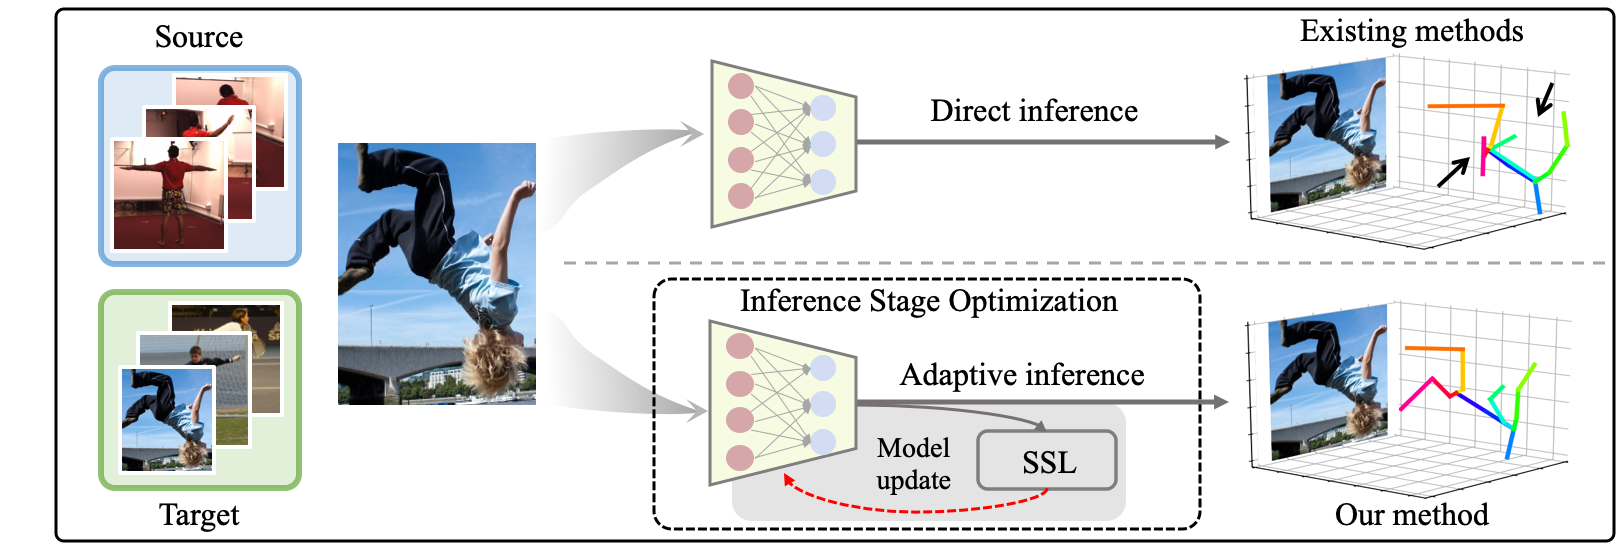
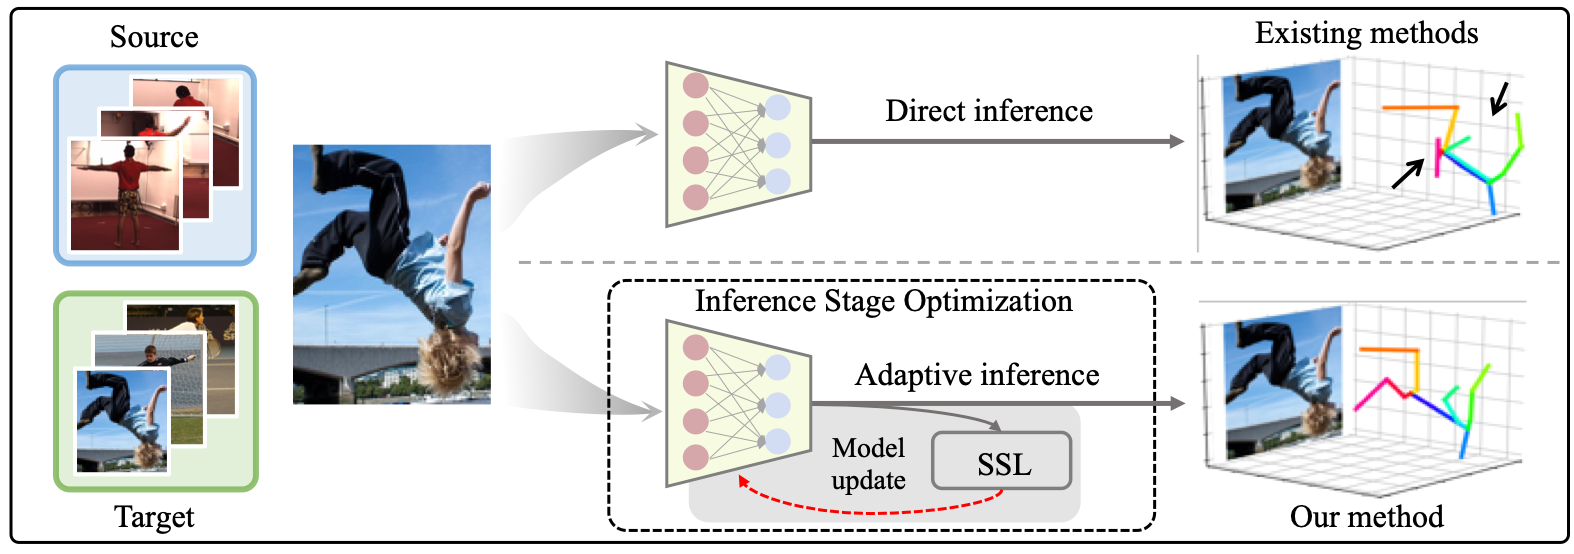
update

Changed region(s): [[0.0, 0.0, 1.0, 0.9855], [0.3736, 0.8931, 0.4047, 0.9239], [0.3424, 0.2156, 0.3736, 0.2464]]

diff --git a/index.html b/index.html
@@ -84,7 +84,7 @@
 		<td>
 			<b>Inference Stage Optimization for Cross-scenario 3D Human Pose Estimation</b><br />
 			<b>Jianfeng Zhang</b>, Xuecheng Nie, Jiashi Feng<br />
-            Arxiv, 2020
+            arxiv, 2020
 <!-- 		<br />
             <p>[<a href="https://arxiv.org/abs/1908.09220" target="_blank">pdf</a>]
             [<a href="https://github.com/NieXC/pytorch-spm">code</a>]
